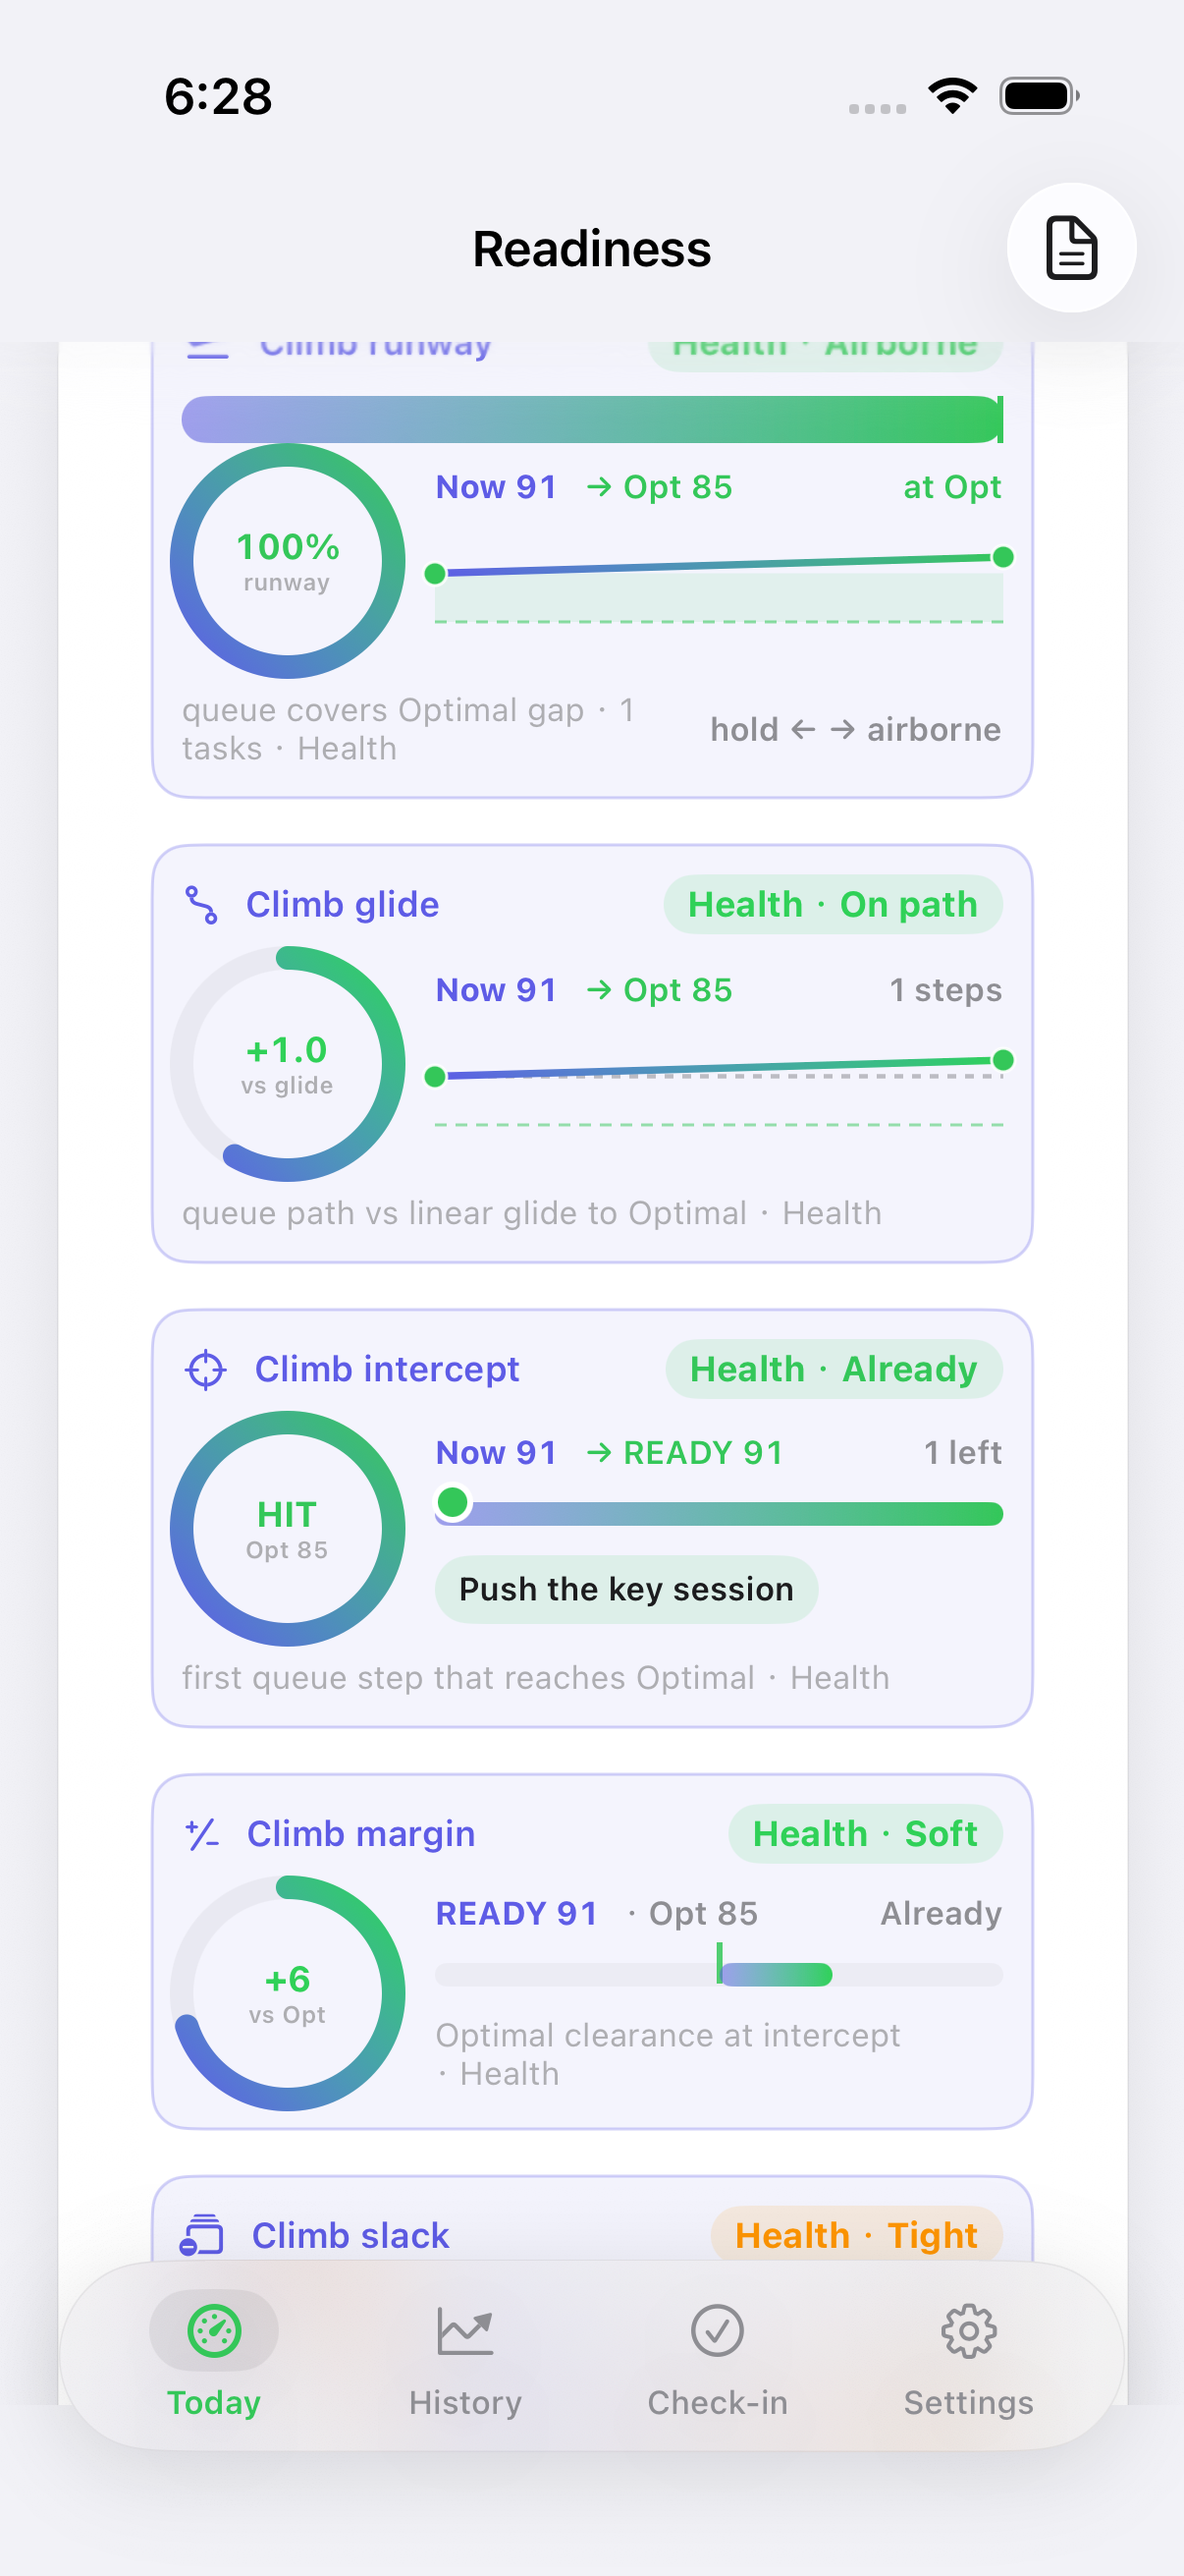
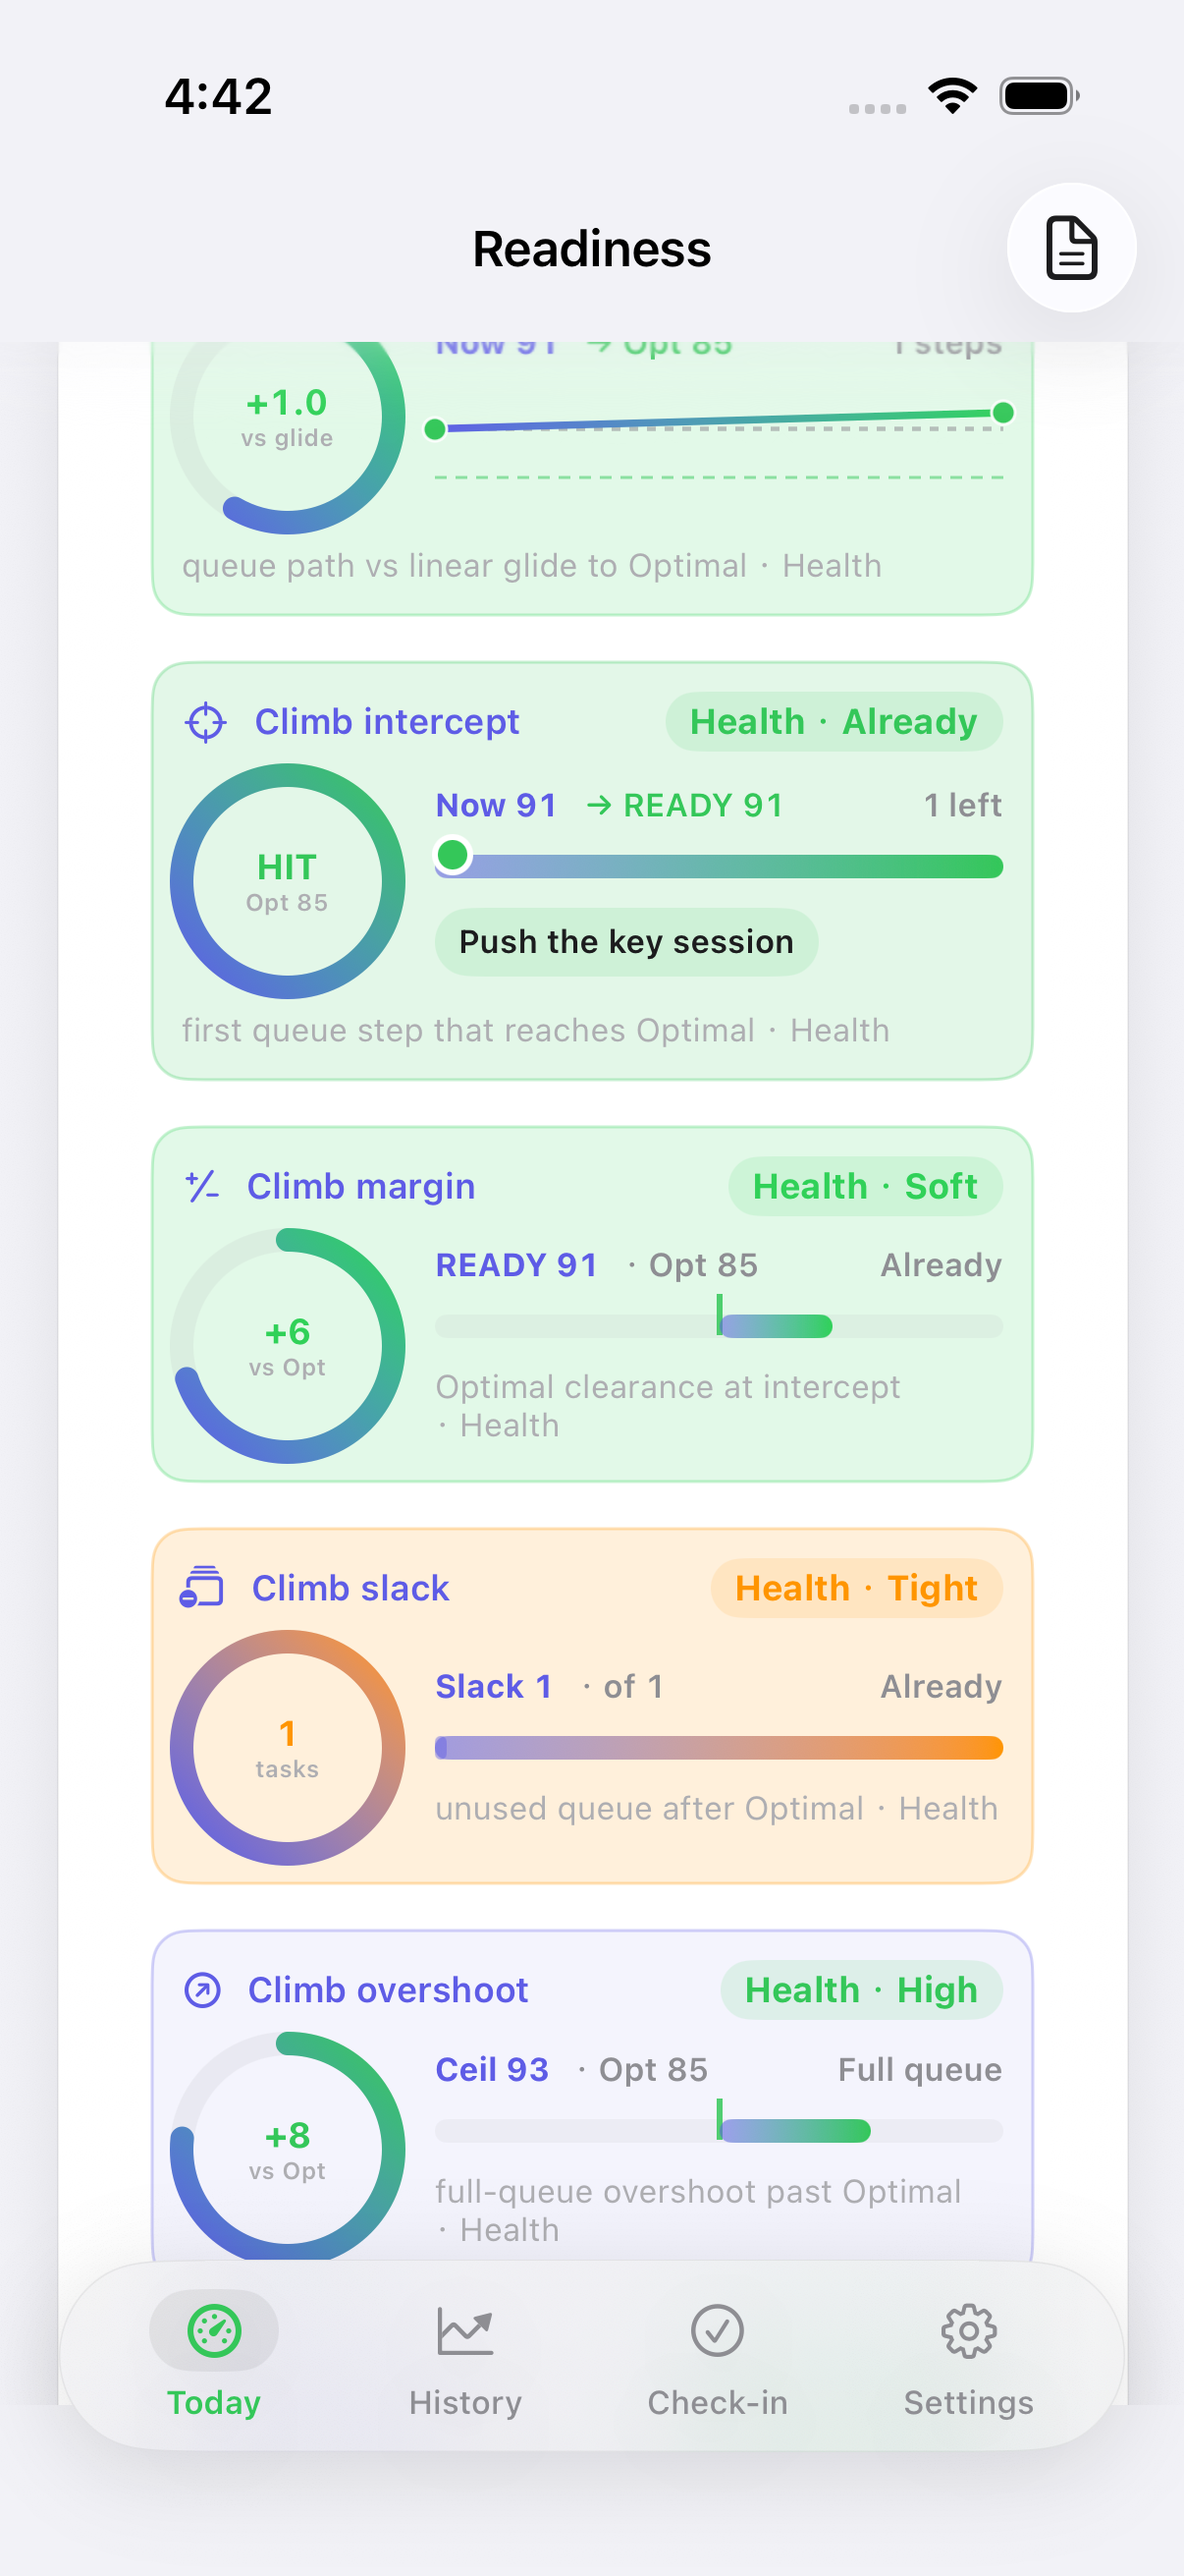
Honest #752: Simulator climb slack (WHOOP wells) (#782)
Why: keep Load Simulator climb visuals on WHOOP-well parity so the slack dial matches margin/intercept/glide/runway/surplus siblings instead of older flat accent chrome.

Restyle the existing Simulator climb slack dial (`sim.load.ready.climb.slack`, Honest #713) with WHOOP wells.

- Idle Short (no Optimal intercept): ghost/hairline 8%/28% using secondaryText
- Active None (slack == 0, intercept exists): 14% fill + 28% hairline (caution)
- Active Tight (slack == 1): 14% fill + 28% hairline (caution)
- Active Soft (slack == 2): 14% fill + 28% hairline (good)
- Active Fat (slack >= 3): 14% fill + 28% hairline (optimal)
- No new SurfaceID; no formula / verb / threshold / metric change

Proof: `testReadinessLoadSimulatorSurface` 777.975s, 0 failures (observer 791.304s); `.audit/verify-simulator-climb-slack.png`
model=deepseek-flash (mechanical pattern-copy of #751 wells applied locally)

Changed region(s): [[0.1227, 0.1236, 0.8897, 0.8959], [0.1227, 0.0309, 0.2148, 0.0618]]

diff --git a/ReadinessTracker/Views/WhoopFeatures/ReadinessLoadSimulatorCard.swift b/ReadinessTracker/Views/WhoopFeatures/ReadinessLoadSimulatorCard.swift
@@ -4892,7 +4892,7 @@ struct ReadinessLoadSimulatorCard: View {
     }
 
 
-    /// Honest #713: READY climb slack — unused pending tasks after Optimal intercept (queue tail).
+    /// Honest #713 / #752: READY climb slack — unused pending tasks after Optimal intercept (queue tail; WHOOP wells).
     @ViewBuilder
     private var readyClimbSlackDial: some View {
         let pending = tasks.filter { !completedTaskIDs.contains($0.id) }.sorted { $0.readyDelta > $1.readyDelta }
@@ -4940,6 +4940,8 @@ struct ReadinessLoadSimulatorCard: View {
         let disp = "\(slack)"
         let denom = max(1, pending.count)
         let progress = interceptIdx == nil ? 0.0 : min(1.0, Double(slack) / Double(denom))
+        let climbSlackIsActive = interceptIdx != nil
+        let wellTone: Color = climbSlackIsActive ? tone : RTColor.secondaryText
         return VStack(alignment: .leading, spacing: 8) {
             HStack(spacing: 8) {
                 Image(systemName: "rectangle.stack.badge.minus")
@@ -5023,10 +5025,10 @@ struct ReadinessLoadSimulatorCard: View {
             }
         }
         .padding(10)
-        .background(accent.opacity(0.07), in: RoundedRectangle(cornerRadius: 12, style: .continuous))
+        .background(wellTone.opacity(climbSlackIsActive ? 0.14 : 0.08), in: RoundedRectangle(cornerRadius: 12, style: .continuous))
         .overlay(
             RoundedRectangle(cornerRadius: 12, style: .continuous)
-                .stroke(accent.opacity(0.28), lineWidth: 1)
+                .stroke(wellTone.opacity(0.28), lineWidth: 1)
         )
         .accessibilityIdentifier(SurfaceID.readinessSimulatorClimbSlack)
         .accessibilityLabel("Climb slack \(verb) \(disp)")

diff --git a/ReadinessTracker/Design/Theme.swift b/ReadinessTracker/Design/Theme.swift
@@ -416,7 +416,7 @@ enum SurfaceID {
     static let readinessSimulatorClimbGlide = "sim.load.ready.climb.glide"  // Honest #626 / #749
     static let readinessSimulatorClimbIntercept = "sim.load.ready.climb.intercept"  // Honest #639 / #750
     static let readinessSimulatorClimbMargin = "sim.load.ready.climb.margin"  // Honest #712 / #751
-    static let readinessSimulatorClimbSlack = "sim.load.ready.climb.slack"  // Honest #713
+    static let readinessSimulatorClimbSlack = "sim.load.ready.climb.slack"  // Honest #713 / #752
     static let readinessSimulatorClimbOvershoot = "sim.load.ready.climb.overshoot"  // Honest #714
     static let readinessSimulatorClimbHold = "sim.load.ready.climb.hold"  // Honest #715
     static let readinessSimulatorClimbCeiling = "sim.load.ready.climb.ceiling"  // Honest #716

diff --git a/ReadinessTrackerUITests/SurfacesUITests.swift b/ReadinessTrackerUITests/SurfacesUITests.swift
@@ -10981,7 +10981,7 @@ final class SurfacesUITests: XCTestCase {
         saveShot("verify-simulator-climb-margin.png")
 
 
-        // Honest #713: READY climb slack
+        // Honest #713 / #752: READY climb slack (WHOOP wells)
         let climbSlack = app.descendants(matching: .any)["sim.load.ready.climb.slack"].firstMatch
         XCTAssertTrue(climbSlack.waitForExistence(timeout: 5)
                       || app.descendants(matching: .any)["sim.load.ready.climb.margin"].firstMatch.exists

diff --git a/.audit/decision-log-2026-11-04.md b/.audit/decision-log-2026-11-04.md
@@ -348,3 +348,10 @@
 
 | 04:17 HKT | #751 Simulator climb margin | prove | UITest suite green /tmp/RT-DD751 (765.401s, 0 failures; observer 779.442s); model=deepseek-flash |
 | 04:18 HKT | #751 Simulator climb margin | land | proof PNG + receipt; SID sim.load.ready.climb.margin; PR squash next; model=deepseek-flash |
+
+| 04:29 HKT | Honest #752 Simulator climb slack | model=deepseek-flash | restyle existing sim.load.ready.climb.slack after climb margin #751; WHOOP ghost/active wells; mechanical pattern-copy of #751 wells applied locally (no separate model iterate needed) | mid-ship |
+| 04:29 HKT | Honest #752 Simulator climb slack | prove | started UITest /tmp/RT-DD752; model=deepseek-flash | mid-ship |
+
+| 04:47 HKT | #752 Simulator climb slack | prove | UITest suite green /tmp/RT-DD752 (777.975s, 0 failures; observer 791.304s); model=deepseek-flash |
+| 04:48 HKT | #752 Simulator climb slack | land | proof PNG + receipt; SID sim.load.ready.climb.slack; PR squash next; model=deepseek-flash |
+

diff --git a/.audit/simulator-climb-slack.md b/.audit/simulator-climb-slack.md
@@ -1,5 +1,6 @@
-# Honest #713: Simulator climb slack
+# Honest #713 / #752: Simulator climb slack (WHOOP wells)
 
 Unused pending tasks after Optimal intercept (queue tail). Fat/Soft/Tight/None/Short dial + used/slack bar.
+Idle Short (no Optimal intercept) = ghost/hairline 8/28 using secondaryText; active None (slack == 0, intercept exists) = 14 fill + 28 hairline (caution); active Tight (slack == 1) = 14 fill + 28 hairline (caution); active Soft (slack == 2) = 14 fill + 28 hairline (good); active Fat (slack >= 3) = 14 fill + 28 hairline (optimal).
 SurfaceID: `sim.load.ready.climb.slack`
 Proof: `.audit/verify-simulator-climb-slack.png`

diff --git a/.audit/features/simulator-climb-slack.md b/.audit/features/simulator-climb-slack.md
@@ -1,4 +1,6 @@
-# Honest #713: Simulator climb slack
+# Honest #713 / #752: Simulator climb slack (WHOOP wells)
 
 SurfaceID: `sim.load.ready.climb.slack`
+Idle Short (no Optimal intercept) = ghost/hairline 8/28 using secondaryText; active None (slack == 0, intercept exists) = 14 fill + 28 hairline (caution); active Tight (slack == 1) = 14 fill + 28 hairline (caution); active Soft (slack == 2) = 14 fill + 28 hairline (good); active Fat (slack >= 3) = 14 fill + 28 hairline (optimal).
 Proof: `.audit/verify-simulator-climb-slack.png`
+UITest: `testReadinessLoadSimulatorSurface`
